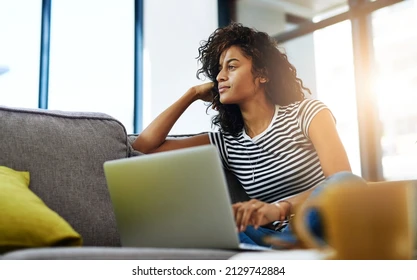
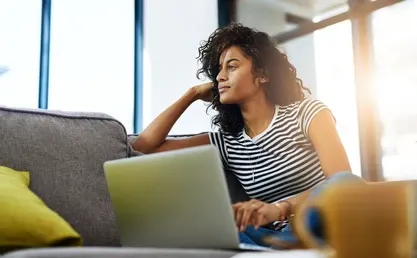
Complteted right

diff --git a/src/styles/pages/home/_index.scss b/src/styles/pages/home/_index.scss
@@ -253,7 +253,6 @@
         }
       }
       .play {
-        @include rounded;
         @include size(100%);
 
         svg {
@@ -265,7 +264,7 @@
 
           &:hover {
             circle {
-              fill: goldenrod;
+              fill: #FBB606;
             }
           }
         }
@@ -281,8 +280,8 @@
         }
       }
     }
-
-    @media only screen and (601px <= width <= 700px),(width > 850px) {
+    //blob update
+    @media only screen and (601px <= width <= 700px), (width > 850px) {
       .left {
         position: relative;
         .header_blob {
@@ -291,16 +290,16 @@
           @include size(30rem);
           @include size(40vw);
           align-self: flex-end;
-          svg{
-            linearGradient{
-              stop{
-                &:nth-child(1){
+          svg {
+            linearGradient {
+              stop {
+                &:nth-child(1) {
                   stop-color: $primary;
                   // stop-color: #0575E6;
                 }
-                &:nth-child(2){
-                  stop-color: darken(#021B79,20%);
-                  stop-color: #021B79;
+                &:nth-child(2) {
+                  stop-color: darken(#021b79, 20%);
+                  stop-color: #021b79;
                 }
               }
             }
@@ -309,7 +308,7 @@
         }
       }
     }
-    @media only screen and (701px <= width <= 1201px) {
+    @media only screen and (701px <= width) {
       .left {
         align-items: flex-start;
         gap: 5rem;
@@ -352,7 +351,171 @@
         }
       }
       .right {
-        @include customgrid(2, 4, 153.36px, calc(100% / 4));
+        @include customgrid(2, 4, 18rem, calc(100% / 4));
+        span {
+          //texts in shapes
+          span {
+            &:nth-child(1) {
+              @include formatText(500, 2.3rem, 3.5rem);
+              @include size(4.1rem, 3.1rem);
+            }
+            &:nth-child(2) {
+              @include formatText(300, 1.5rem, 1.9rem);
+              @include size(4.9rem, 1.9rem);
+            }
+          }
+          // /subgrids
+          &:nth-child(1) {
+            @include flex;
+            @include position("2/3", "3/5");
+          }
+          &:nth-child(2) {
+            @include position("1/2");
+          }
+
+          &:nth-child(5) {
+            @include position("2/3", "1/2");
+            @include size(17.5rem);
+          }
+          &:nth-child(6) {
+            @include position("1/2", "2/3");
+          }
+          &:nth-child(8) {
+            @include position("2/3", "2/3");
+            display: flex;
+            background-color: $primary;
+          }
+          &:nth-child(7) {
+            @include flex(column);
+            @include position("1/2", "3/4");
+            background-color: #4b5d73;
+          }
+          &:nth-child(9) {
+            @include flex(column);
+            @include position("1/2", "4/5");
+            background-color: #4b5d73;
+          }
+        }
+      }
+    }
+    @media only screen and (900px <= width < 1201px) {
+      .right {
+        @include customgrid(2, 4, 24rem, calc(100% / 4));
+      }
+    }
+    @media only screen and (1000px <= width < 1201px) {
+      .right {
+        @include customgrid(2, 4, 26rem, calc(100% / 4));
+      }
+    }
+    @media only screen and (width > 1200px) {
+      // flex-direction: row;
+      padding-inline: 8rem;
+      @include customgrid(2, 2, auto, 1fr);
+      .left {
+        @include position("1/2");
+        height: 100%;
+
+        .header_blob {
+          display: none;
+        }
+      }
+      .right {
+        @include position("1/2", "2/3");
+        align-self: flex-start;
+        height: 100%;
+        @include customgrid(2, 4, 13.4rem, calc(100% / 4));
+        @include customgrid(4, 4, 13.4rem);
+        justify-content: flex-end;
+        span {
+          @include flex;
+
+          // /subgrids
+          &:nth-child(1) {
+            @include flex;
+            @include position("4/5", "3/5");
+            img {
+              transform: scaleX(-1);
+              border-bottom-left-radius: 25%;
+              // border-top-left-radius: 25%;
+            }
+          }
+          &:nth-child(2) {
+            @include position("3/4", "1/2");
+          }
+          &:nth-child(3) {
+            @include position("1/2", "2/3");
+            img {
+              border-radius: 50%;
+            }
+          }
+          &:nth-child(4) {
+            @include position("2/3", "3/4");
+            img {
+              border-radius: 50%;
+            }
+          }
+          &:nth-child(5) {
+            @include size(100%);
+            @include position("4/5", "2/3");
+          }
+          &:nth-child(6) {
+            @include flex(column);
+            @include position("2/3");
+            border-radius: 0;
+            background-color: #47C079;
+          }
+          &:nth-child(7) {
+            @include flex(column);
+            @include position("3/4", "4/5");
+            border-radius: 0;
+            border-bottom-left-radius: 50%;
+            border-top-left-radius: 50%;
+          }
+          &:nth-child(8) {
+            @include position("3/4", "2/3");
+            @include rounded;
+            background-color: #A754EE;
+          }
+          &:nth-child(9) {
+            @include position("1/2", "4/5");
+            @include rounded(#1DBCF4);
+          }
+          &:nth-child(10) {
+            @include position("2/3", "4/5");
+            background-color: #1DBCF4;
+          }
+          &:nth-child(11) {
+            @include position("1/2", "3/4");
+            background-color: #FBB606;
+            border-bottom-right-radius: 50%;
+            border-top-right-radius: 50%;
+          }
+          &:nth-child(12) {
+            @include position("3/4", "3/4");
+            background-color: $primary;
+          }
+          &:nth-child(13) {
+            @include position("1/2");
+          }
+          &:nth-child(14) {
+            @include position("4/5", "1/2");
+            background-color: #ACD7FA;
+            border-radius: 50%;
+            border-bottom-right-radius: 0px;
+          }
+
+          &:nth-child(15) {
+            @include position("1/2");
+          }
+          &:nth-child(16) {
+            @include position("2/3", "1/2");
+          }
+        }
+      }
+      .center {
+        width: 100%;
+        @include position("2/3", "1/3");
       }
     }
   }

diff --git a/src/app/[locale]/home/header.tsx b/src/app/[locale]/home/header.tsx
@@ -36,8 +36,8 @@ const Header = () => {
           <svg version="1.1" xmlns="http://www.w3.org/2000/svg" viewBox="0 0 500 500" width="100%" id="blobSvg">
             <defs>
               <linearGradient id="gradient" x1="0%" y1="0%" x2="0%" y2="100%">
-                <stop offset="0%" stopColor="rgb(238, 205, 163)"></stop>
-                <stop offset="100%" stopColor="rgb(239, 98, 159)"></stop>
+                <stop offset="0%" stopColor="rgb(238, 205, 163)"/>
+                <stop offset="100%" stopColor="rgb(239, 98, 159)"/>
               </linearGradient>
             </defs>
             <path id="blob" fill="url(#gradient)">
@@ -46,7 +46,7 @@ const Header = () => {
                 dur="10000ms"
                 repeatCount="indefinite"
                 values="M440.5,320.5Q418,391,355.5,442.5Q293,494,226,450.5Q159,407,99,367Q39,327,31.5,247.5Q24,168,89,125.5Q154,83,219.5,68Q285,53,335.5,94.5Q386,136,424.5,193Q463,250,440.5,320.5Z;M453.78747,319.98894Q416.97789,389.97789,353.96683,436.87838Q290.95577,483.77887,223.95577,447.43366Q156.95577,411.08845,105.64373,365.97789Q54.33169,320.86732,62.67444,252.61056Q71.01719,184.3538,113.01965,135.21007Q155.02211,86.06634,220.52211,66.46683Q286.02211,46.86732,335.5,91.94472Q384.97789,137.02211,437.78747,193.51106Q490.59704,250,453.78747,319.98894Z;M411.39826,313.90633Q402.59677,377.81265,342.92059,407.63957Q283.24442,437.46649,215.13648,432.5428Q147.02853,427.61911,82.23325,380.9572Q17.43796,334.29529,20.45223,250.83809Q23.46649,167.38089,82.5856,115.05707Q141.70471,62.73325,212.19045,63.73015Q282.67618,64.72705,352.67308,84.79839Q422.66998,104.86972,421.43486,177.43486Q420.19974,250,411.39826,313.90633Z;M440.5,320.5Q418,391,355.5,442.5Q293,494,226,450.5Q159,407,99,367Q39,327,31.5,247.5Q24,168,89,125.5Q154,83,219.5,68Q285,53,335.5,94.5Q386,136,424.5,193Q463,250,440.5,320.5Z;"
-              ></animate>
+              />
             </path>
           </svg>
         </div>
@@ -60,10 +60,10 @@ const Header = () => {
         {...new Array(4).fill(4).map((_, i) => (
           <span className="" key={nanoid()}>
             {/* <Image style={{objectFit: "cover"}} src={`/hd/img${++i}.png`} alt='gallery_image' width={98} height={103} quality={100}/> */}
-            <Image style={{ objectFit: "cover" }} src={`/sharp/${++i}.png`} alt="gallery_image" width={400} height={400} quality={100} />
+            <Image style={{ objectFit: "cover" }} src={`/sharp/${++i}.webp`} alt="gallery_image" width={400} height={400} quality={100} />
           </span>
         ))}
-        {...new Array(8).fill(8).map((_, i) => (
+        {...new Array(11).fill(11).map((_, i) => (
           <span className="" key={nanoid()}>
             {i === 1 && (
               <>

diff --git a/src/utils/sharp.js b/src/utils/sharp.js
@@ -11,5 +11,5 @@ const directory = 'public/sharp';
 fs.readdirSync(directory).forEach(file => {
  sharp(`${directory}/${file}`)
     // .resize(1920, 1080) // width, height
-    .toFile(`${directory}/${file.slice(0,1)}.png`);
+    .toFile(`${directory}/${file.slice(0,1)}.webp`);
   });
